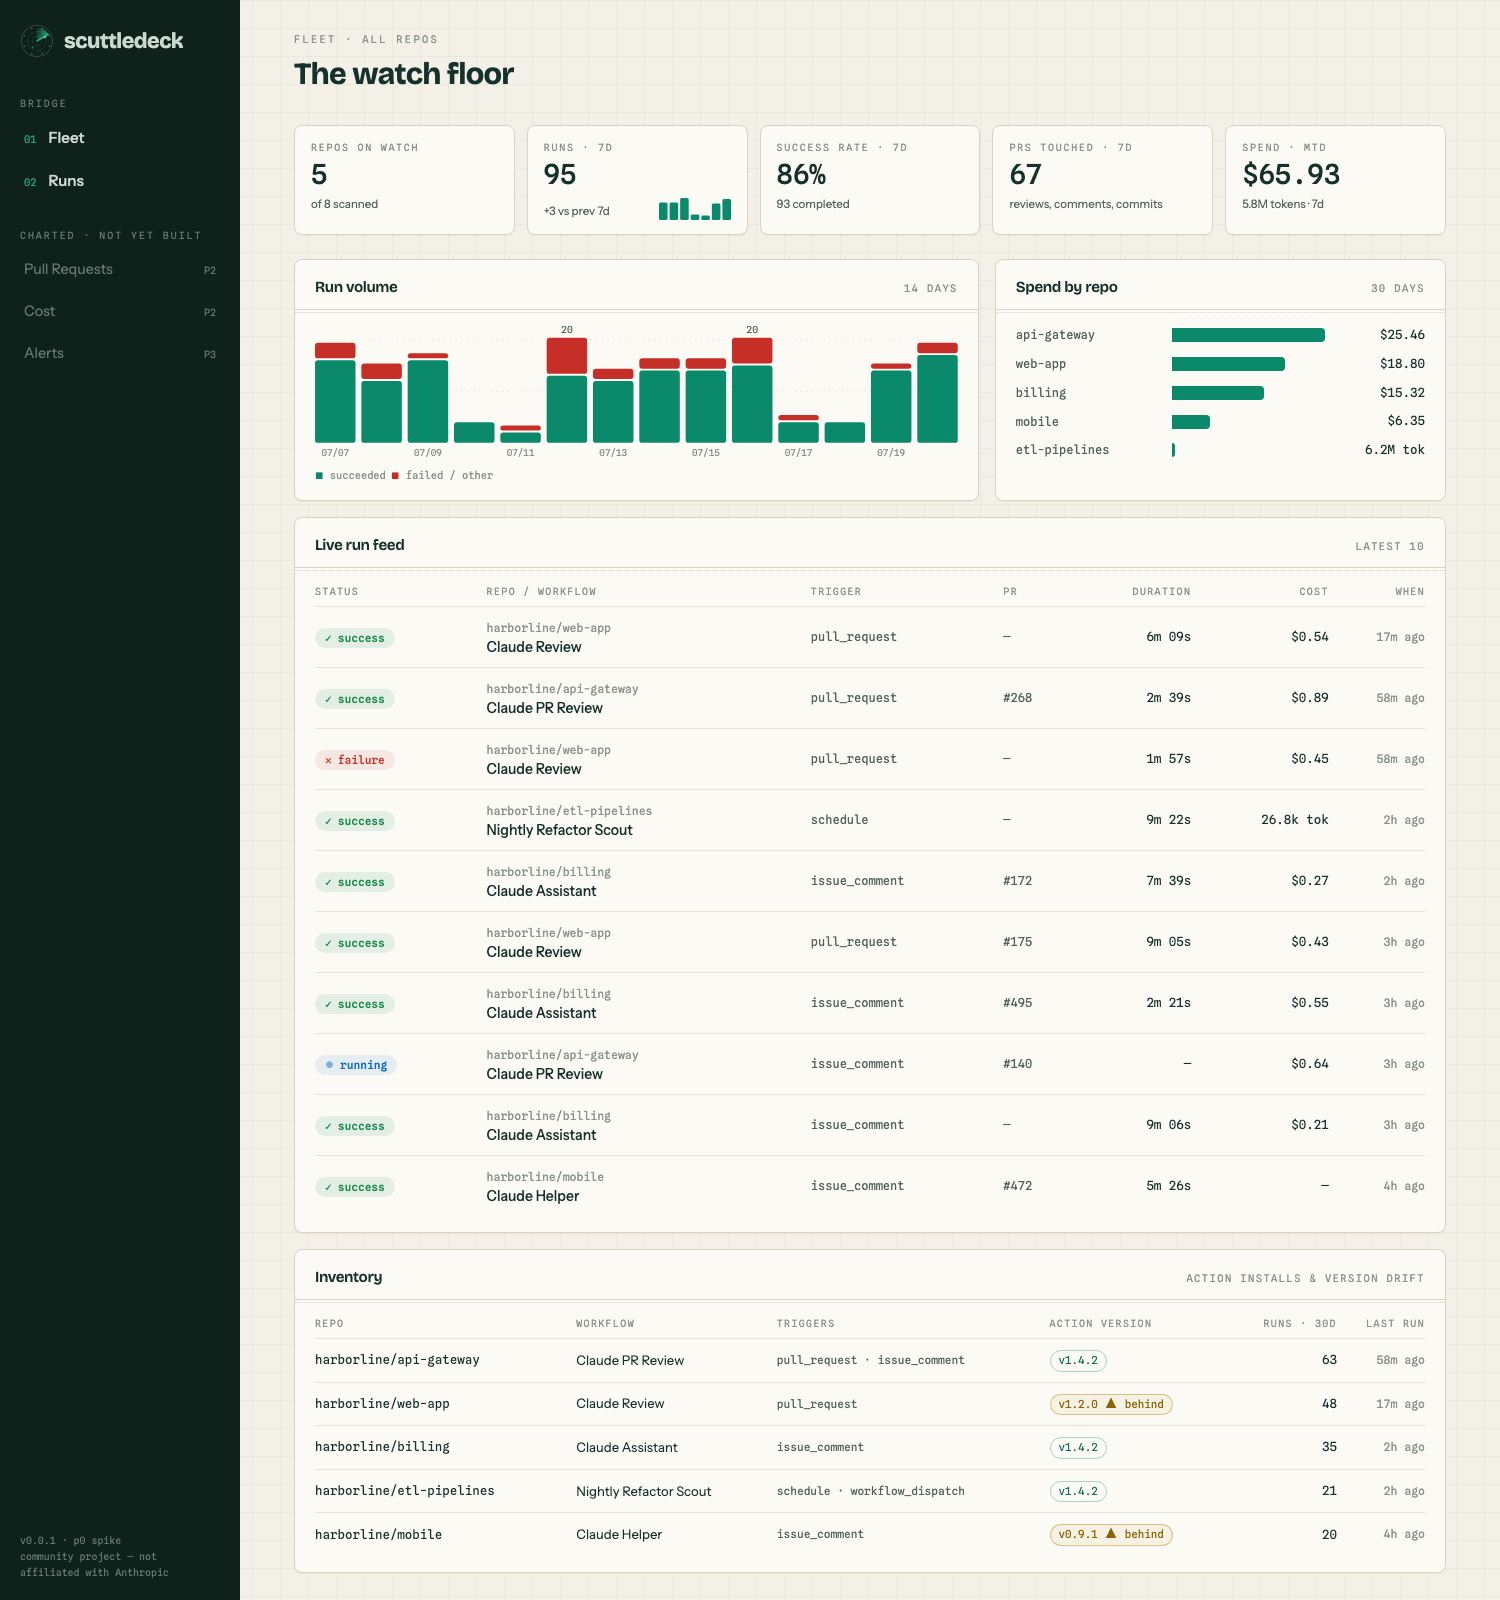
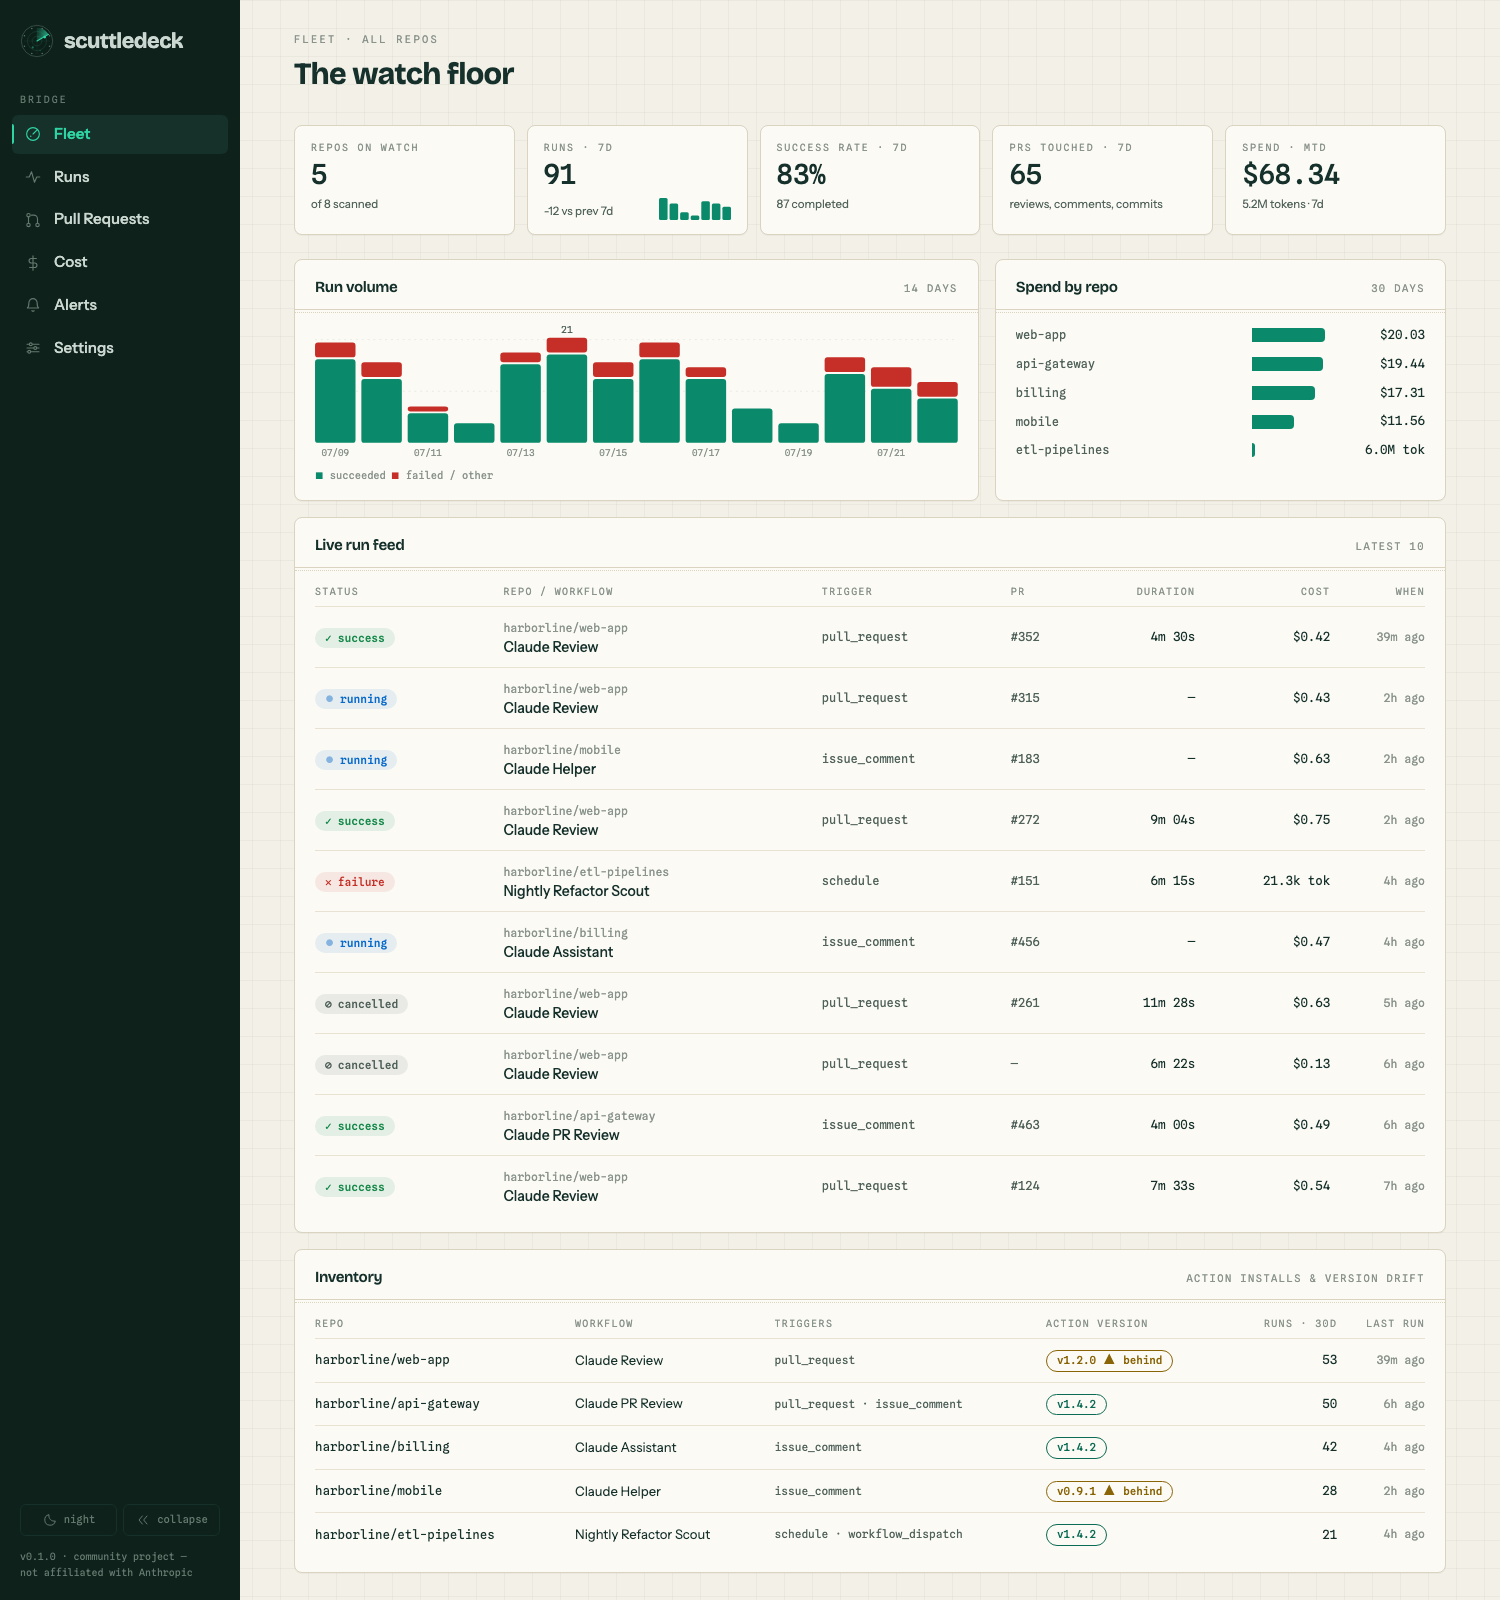
Refresh README screenshot to the current UI

diff --git a/README.md b/README.md
@@ -8,6 +8,8 @@
 
 ![Scuttledeck fleet dashboard](docs/screenshot-fleet.png)
 
+<sub>The Fleet view. Also included: Runs, Pull Requests (merge rate, cost per review), Cost, Alerts, Settings — and a dark "night watch" theme.</sub>
+
 > **Status: v0.1.0 (early).** The core pipeline — GitHub webhooks, OpenTelemetry ingest, and the run↔cost correlator — is verified end-to-end, including deployments behind LLM gateways (LiteLLM / Bedrock / Vertex). Expect rough edges; issues and feedback welcome.
 
 > Scuttledeck is an independent community project. It is **not affiliated with, endorsed by, or supported by Anthropic**.